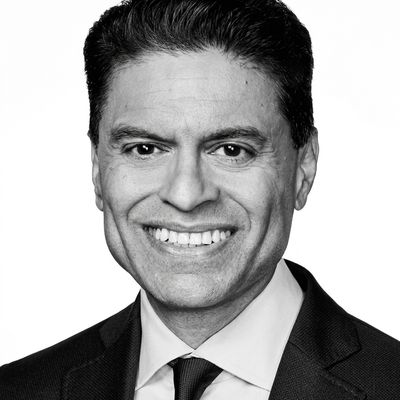
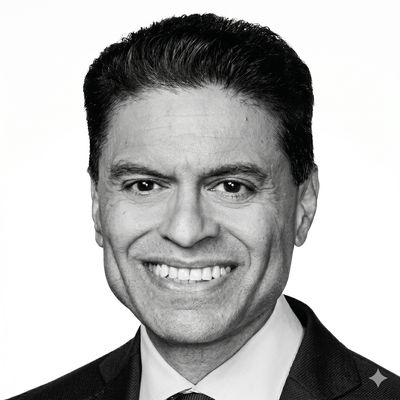
Refresh selected author photos

diff --git a/newsroom/static/newsroom.html b/newsroom/static/newsroom.html
@@ -385,7 +385,7 @@ const AUTHOR_PHOTOS = {
   'Editorial':'/static/journalists/editorial-estadao.jpg?v=20260426c',
   'Elena Landau':'/static/journalists/elena-landau.jpg?v=20260426',
   'Fernando Gabeira':'/static/journalists/fernando-gabeira.jpg?v=20260426d',
-  'Fareed Zakaria':'/static/journalists/fareed-zakaria.jpg?v=20260426b',
+  'Fareed Zakaria':'/static/journalists/fareed-zakaria.jpg?v=20260426e',
   'Gideon Rachman':'/static/journalists/gideon-rachman.jpg?v=20260426b',
   'Guy Perelmuter':'/static/journalists/guy-perelmuter.jpg?v=20260426b',
   'Ian Bremmer':'/static/journalists/ian-bremmer.jpg?v=20260426c',
@@ -393,8 +393,8 @@ const AUTHOR_PHOTOS = {
   'Malu Gaspar':'/static/journalists/malu-gaspar.png',
   'Mark Gurman':'/static/journalists/mark-gurman.jpg?v=20260426b',
   'Martin Wolf':'/static/journalists/martin-wolf.jpg?v=20260426d',
-  'Parmy Olson':'/static/journalists/parmy-olson.jpg?v=20260426d',
-  'Peggy Noonan':'/static/journalists/peggy-noonan.jpg?v=20260426c',
+  'Parmy Olson':'/static/journalists/parmy-olson.jpg?v=20260426e',
+  'Peggy Noonan':'/static/journalists/peggy-noonan.jpg?v=20260426e',
   'Richard Waters':'/static/journalists/richard-waters.jpg?v=20260426c',
   'The Telegram':'/static/journalists/the-telegram.jpg',
   'Thaís Oyama':'/static/journalists/thais-oyama.jpg?v=20260426b',
